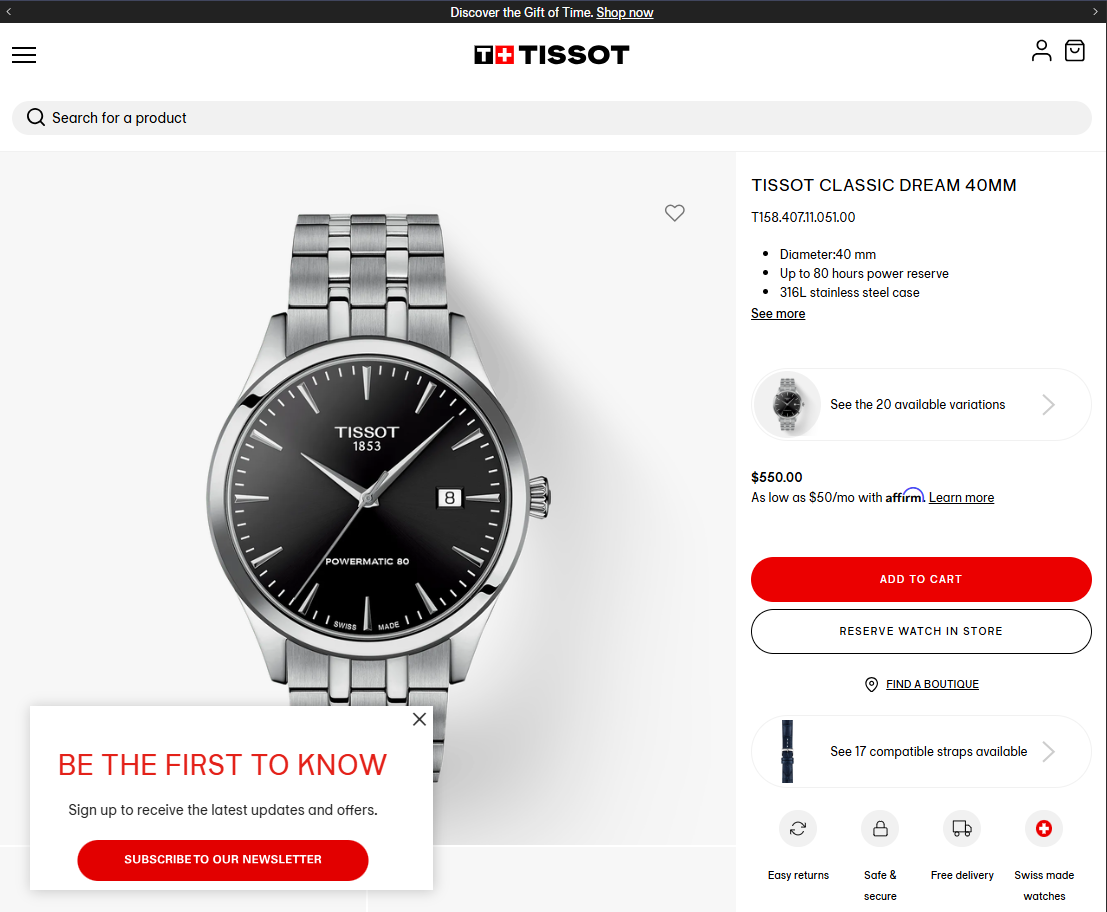
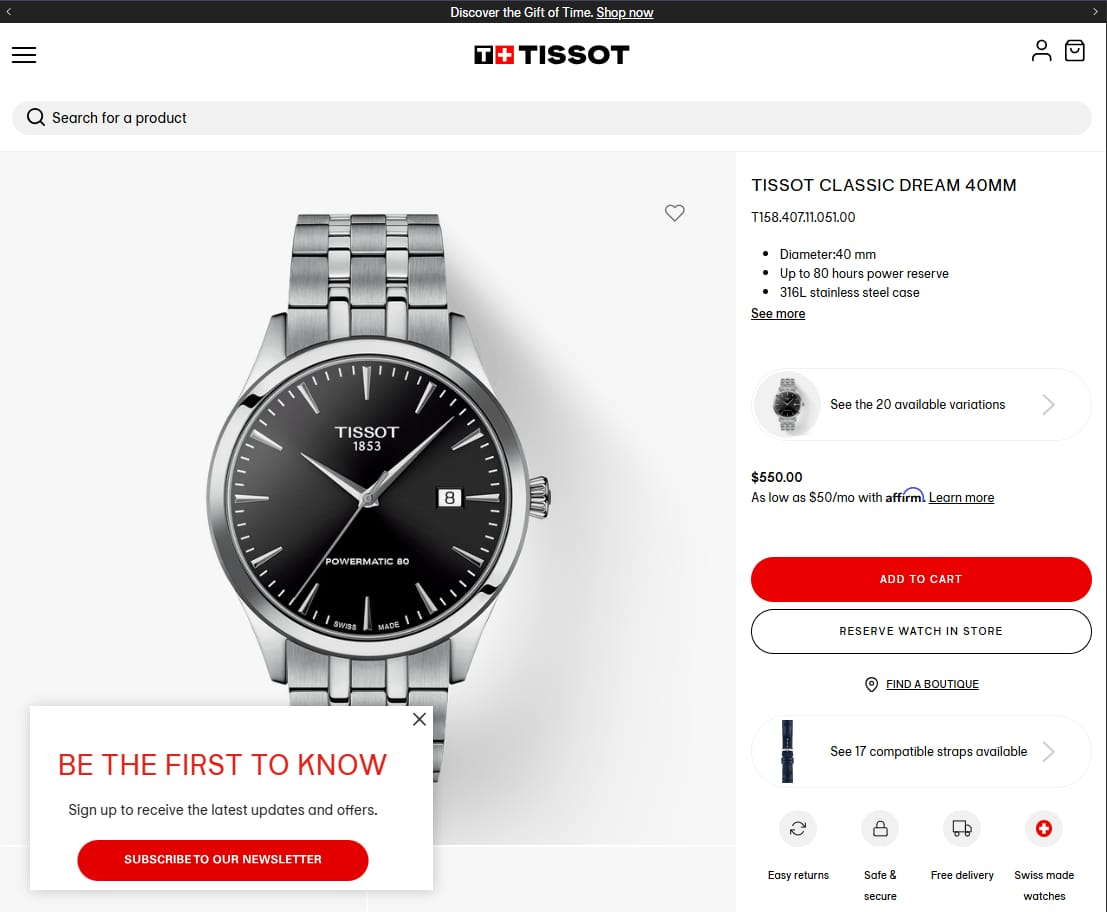
Add Snipes USA project and compress Tissot images

diff --git a/src/resources/content.tsx b/src/resources/content.tsx
@@ -63,15 +63,15 @@ const home: Home = {
         <strong className="ml-4">Recent Project</strong>{" "}
         <Line background="brand-alpha-strong" vert height="20" />
         <Text marginRight="4" onBackground="brand-medium">
-          Tissot
+          Snipes USA
         </Text>
       </Row>
     ),
-    href: "https://www.tissotwatches.com/en-us",
+    href: "https://www.snipesusa.com/",
   },
   subline: (
     <>
-      I'm Volkan, a Back End Engineer at <Text as="span" size="xl" weight="strong">OSF Digital</Text>, where I develop excellent and scalable e-commerce solutions.
+      I'm Volkan, a Back End Engineer at <Text as="span" size="xl" weight="strong">Snipes USA</Text>, where I develop excellent and scalable e-commerce solutions.
     </>
   ),
 };
@@ -112,8 +112,38 @@ Committed to continuous improvement and delivering high-quality code that elevat
     title: "Work Experience",
     experiences: [
       {
+        company: "SNIPES USA",
+        timeframe: "July 2026 - Present",
+        role: "Back End Engineer",
+        achievements: [
+          <>
+           Responsible for the end-to-end development and maintenance of Snipes USA's e-commerce platform, including building new features, resolving production issues, and proposing technical improvements. Partnered with business stakeholders to translate requirements into effective solutions and advance the platform's long-term goals.
+          </>,
+        ],
+        images: [
+          {
+            src: "/images/projects/snipes/snipes-home.jpg",
+            alt: "Snipes Home Page",
+            width: 16,
+            height: 9,
+          },
+          {
+            src: "/images/projects/snipes/snipes-plp.jpg",
+            alt: "Snipes PLP Page",
+            width: 16,
+            height: 9,
+          },
+          {
+            src: "/images/projects/snipes/snipes-pdp.jpg",
+            alt: "Snipes PDP Page",
+            width: 16,
+            height: 9,
+          },
+        ],
+      },
+      {
         company: "Tissot via OSF Digital",
-        timeframe: "August 2025 - Present",
+        timeframe: "August 2025 - July 2026",
         role: "Back End Engineer (Senior 1)",
         achievements: [
           <>
@@ -121,7 +151,6 @@ Committed to continuous improvement and delivering high-quality code that elevat
           </>,
         ],
         images: [
-          // optional: leave the array empty if you don't want to display images
           {
             src: "/images/projects/tissot/tissot-home.jpg",
             alt: "Tissot Home Page",
@@ -152,7 +181,6 @@ Committed to continuous improvement and delivering high-quality code that elevat
           </>,
         ],
         images: [
-          // optional: leave the array empty if you don't want to display images
           {
             src: "/images/projects/myorigines/myorigines-cart.png",
             alt: "MyOrigines Cart Page",
@@ -186,7 +214,6 @@ Committed to continuous improvement and delivering high-quality code that elevat
           </>,
         ],
         images: [
-          // optional: leave the array empty if you don't want to display images
           {
             src: "/images/projects/vilebrequin/vilebrequin-home.jpg",
             alt: "Vilebrequin Home Page",
@@ -221,7 +248,6 @@ Committed to continuous improvement and delivering high-quality code that elevat
           ,
         ],
         images: [
-          // optional: leave the array empty if you don't want to display images
           {
             src: "/images/projects/sarenza/sarenza-home.jpg",
             alt: "Sarenza Home Page",
@@ -252,7 +278,6 @@ Committed to continuous improvement and delivering high-quality code that elevat
           </>,
         ],
         images: [
-          // optional: leave the array empty if you don't want to display images
           {
             src: "/images/projects/moleskine/moleskine-home.jpg",
             alt: "Moleskine Home Page",

diff --git a/src/app/about/page.tsx b/src/app/about/page.tsx
@@ -241,7 +241,7 @@ export default function About() {
                             key={index}
                             border="neutral-medium"
                             radius="m"
-                            minWidth={image.width}
+                            width={image.width}
                             height={image.height}
                           >
                             <Media

diff --git a/src/app/configuration/companyLogos.tsx b/src/app/configuration/companyLogos.tsx
@@ -7,6 +7,12 @@ export type CompanyLogo = {
 
 export const companyLogos: CompanyLogo[] = [
   {
+    darkFileName: "snipes-dark.png",
+    lightFileName: "snipes-light.png",
+    label: "Snipes",
+    url: "https://www.snipesusa.com/",
+  },
+  {
     darkFileName: "tissot-dark.png",
     lightFileName: "tissot-light.png",
     label: "Tissot",
